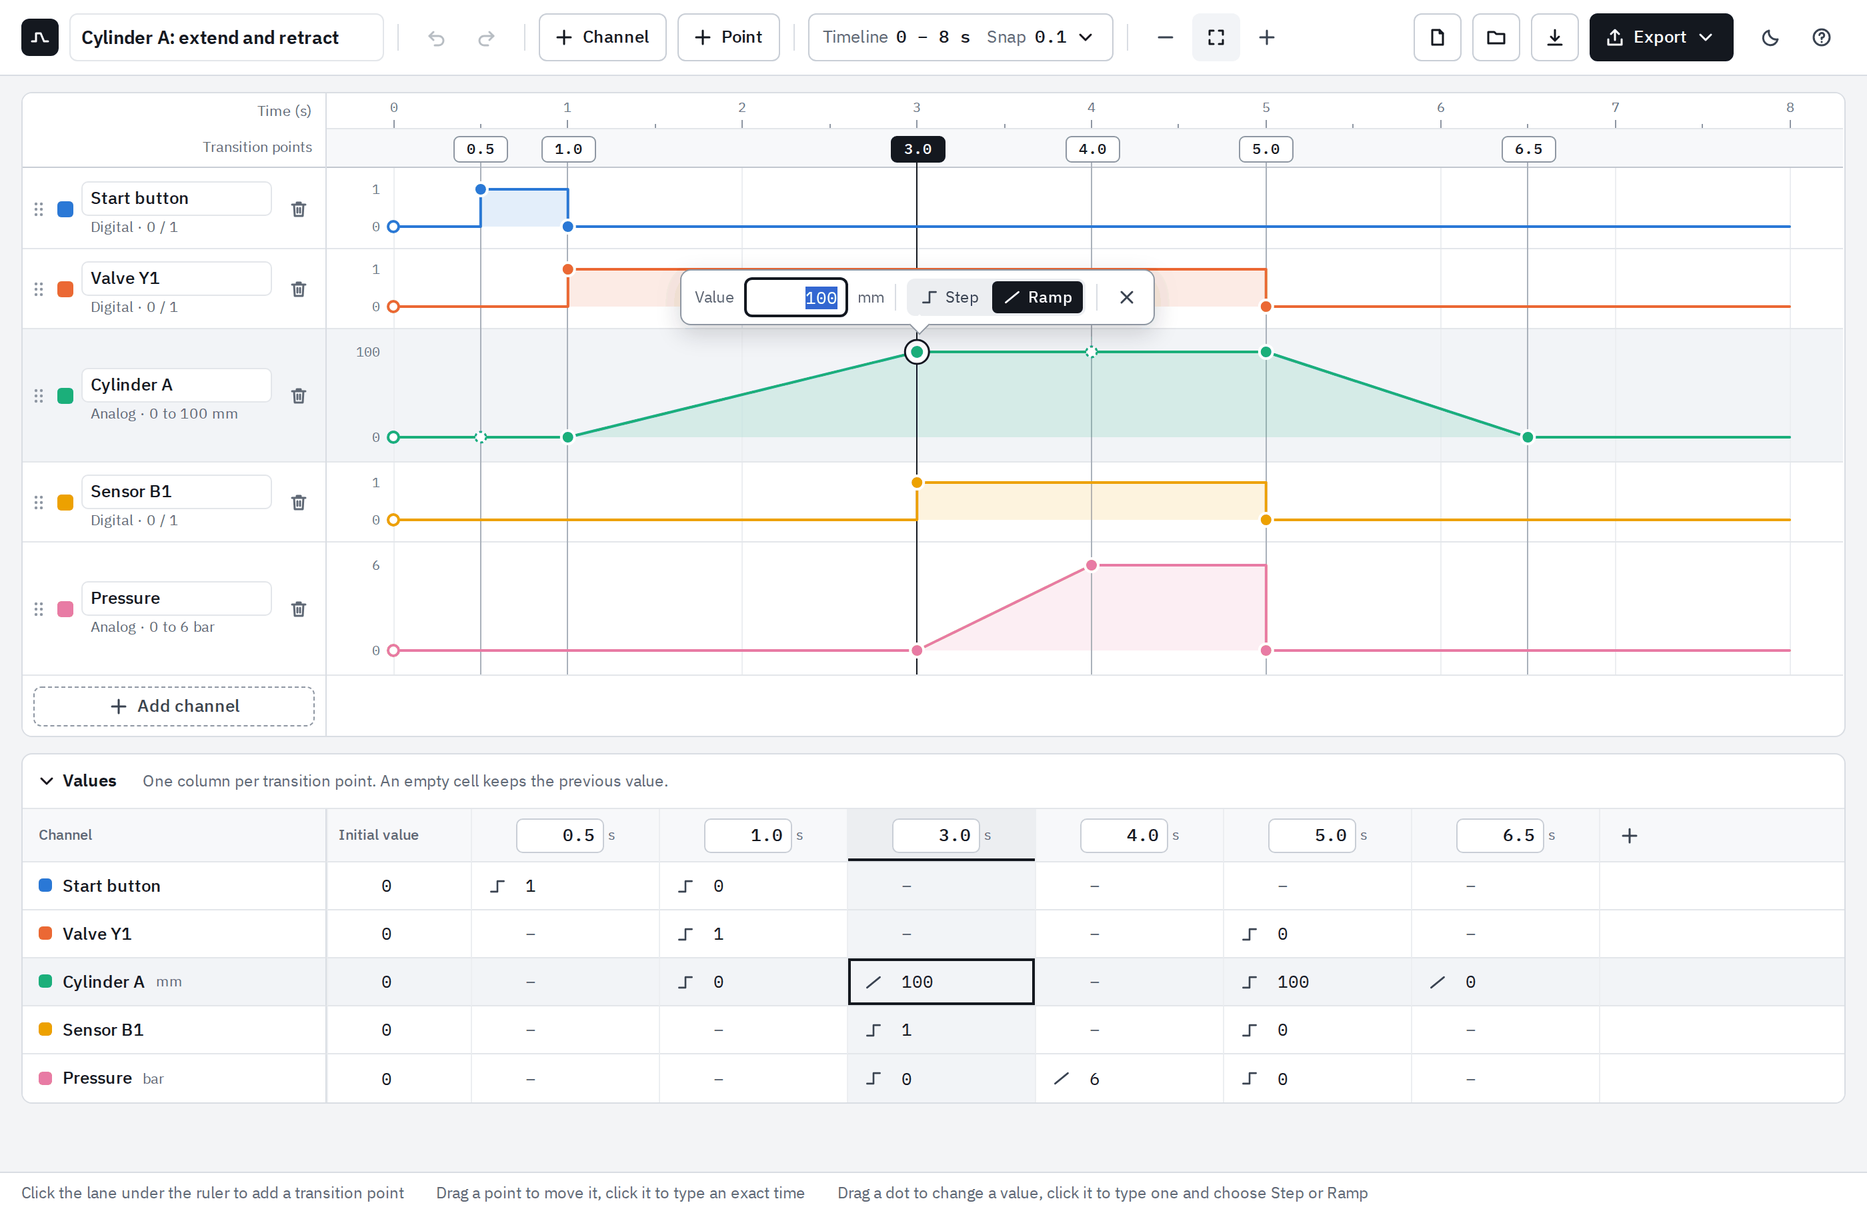
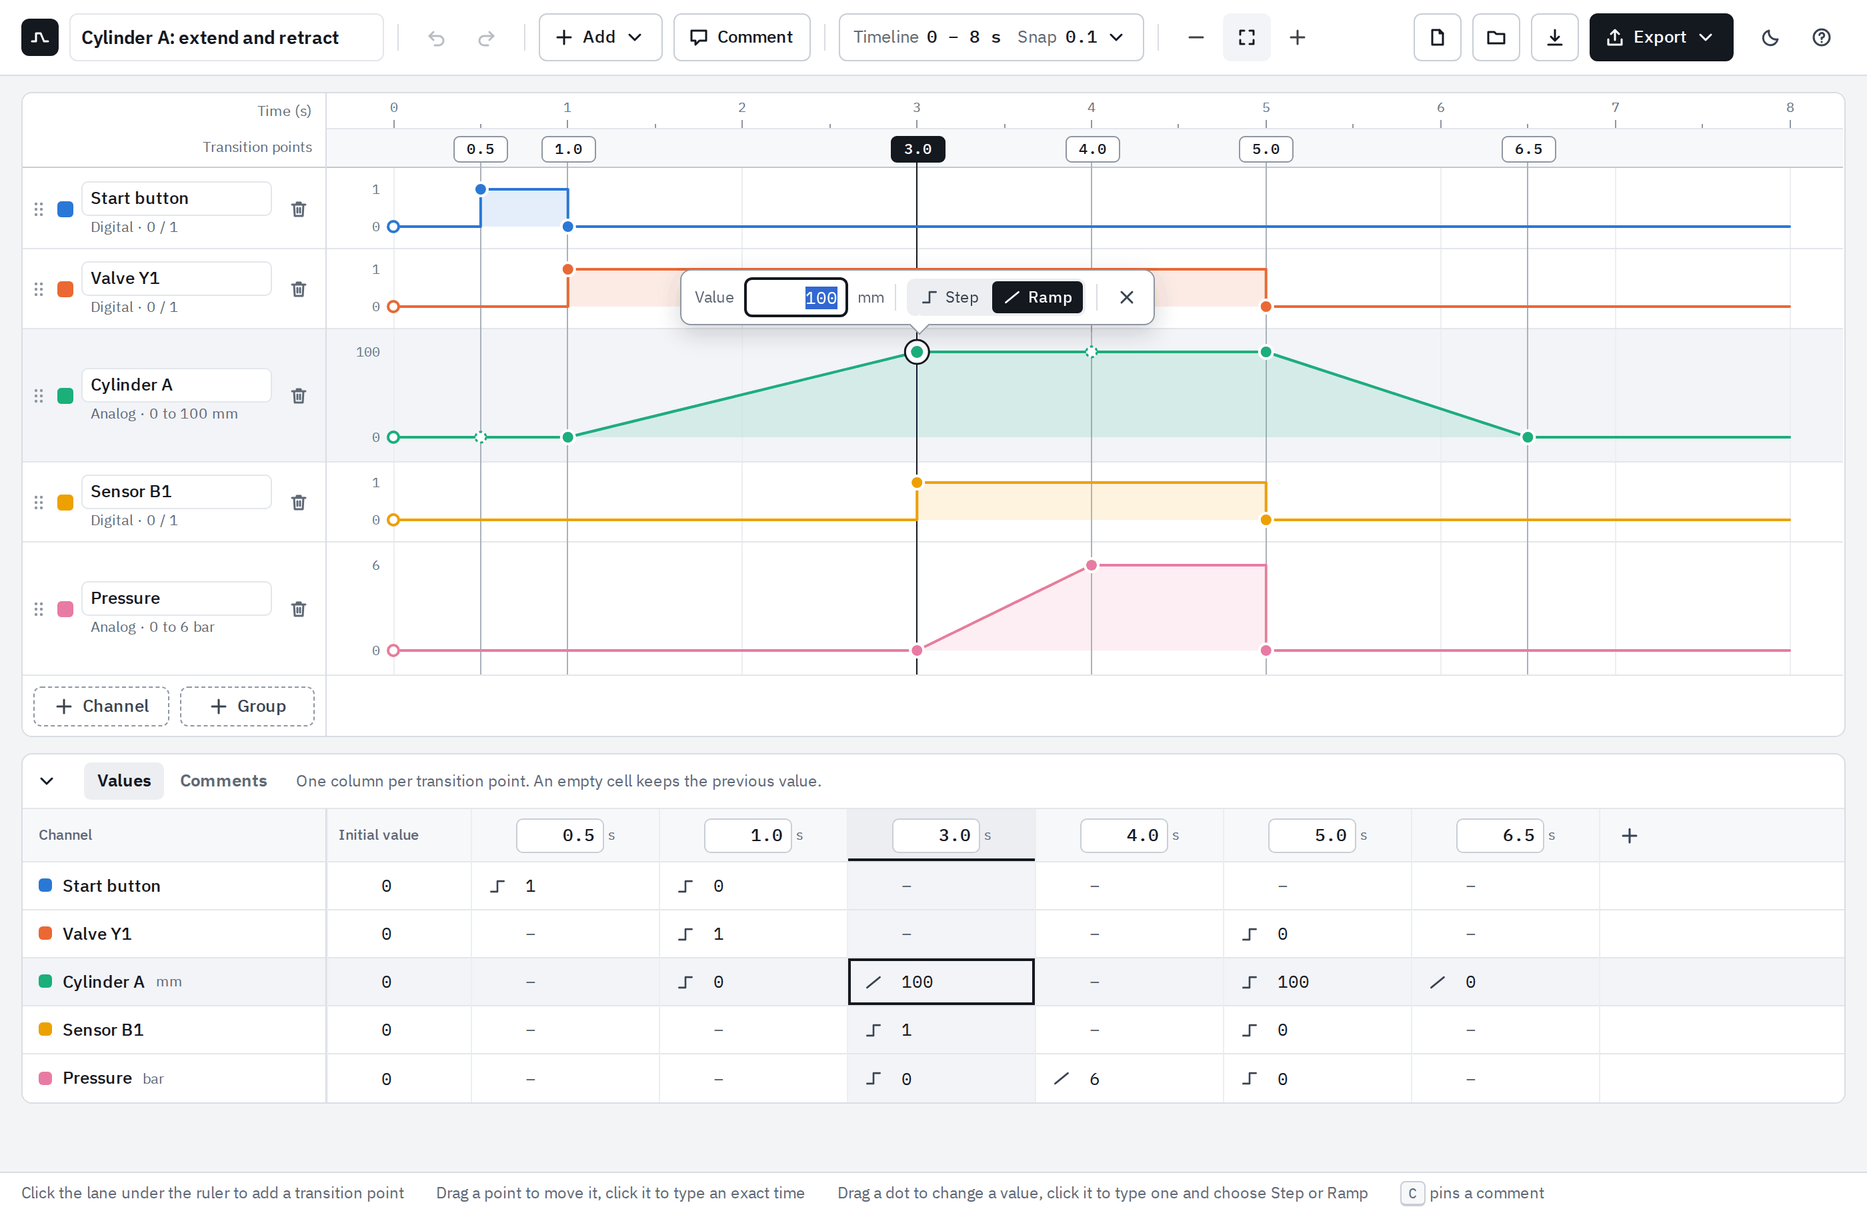
Version 1.1.0: user guide, help and screenshots for groups, phases and comments
The README and the help panel explain groups, phases and comments; the
example with all three is loaded from the help panel. The plan records
what was built and where it differs from the mockup.

diff --git a/src/ui/Toolbar.tsx b/src/ui/Toolbar.tsx
@@ -213,7 +213,7 @@ function HelpPanel() {
       <h3>Channels</h3>
       <ul>
         <li>
-          <b>Add channel</b> under the lanes adds a digital (0 / 1) or an analog channel.
+          <b>+ Channel</b> under the lanes, or <b>Add</b> in the toolbar, adds a digital (0 / 1) or an analog channel.
         </li>
         <li>Click a name to rename it. Click the line under the name for type, colour, unit and range.</li>
         <li>Drag the grip on the left to reorder. The bin removes the channel.</li>
@@ -233,7 +233,38 @@ function HelpPanel() {
         <li>
           <b>Step</b> keeps the previous value and then jumps. <b>Ramp</b> changes gradually from the previous point.
         </li>
-        <li>The table at the bottom shows and edits the same numbers.</li>
+        <li>
+          The <b>Values</b> tab at the bottom shows and edits the same numbers.
+        </li>
+      </ul>
+      <h3>Groups</h3>
+      <ul>
+        <li>
+          <b>+ Group</b> under the lanes adds a titled block of channels, e.g. one per state of the machine. The first group takes the channels
+          that are there. All groups share the timeline and its transition points.
+        </li>
+        <li>
+          Click the title to rename it, drag its grip to reorder, fold it away with the arrow. <b>⋯</b> adds channels and phases, duplicates or
+          removes the group.
+        </li>
+        <li>Drag a channel by its grip into another group.</li>
+      </ul>
+      <h3>Phases</h3>
+      <ul>
+        <li>Click or drag in the bar of a group to add a phase: a titled stretch of time inside that group.</li>
+        <li>Click a phase for its title and exact times. Drag one of its ends to move it.</li>
+        <li>An end that sits on a transition point follows that point.</li>
+      </ul>
+      <h3>Comments</h3>
+      <ul>
+        <li>
+          <b>Comment</b> in the toolbar picks up a pin. Click where it belongs: a spot in a lane, a transition point, a phase, or the name of a
+          channel, a group or the diagram.
+        </li>
+        <li>Click a pin to read or change its text, drag it to another place.</li>
+        <li>
+          The <b>Comments</b> tab at the bottom lists them all. Exports show the pins and the texts.
+        </li>
       </ul>
       <h3>Keyboard</h3>
       <dl>
@@ -254,9 +285,13 @@ function HelpPanel() {
         </dt>
         <dd>Make the selected value a step / a ramp</dd>
         <dt>
+          <kbd>C</kbd>
+        </dt>
+        <dd>Pin a comment: to what has the focus, or with the next click</dd>
+        <dt>
           <kbd>Del</kbd>
         </dt>
-        <dd>Delete the selected point or value</dd>
+        <dd>Delete the selected point, value, phase or comment</dd>
         <dt>
           <kbd>Ctrl</kbd> + wheel
         </dt>

diff --git a/src/model/phases.ts b/src/model/phases.ts
@@ -1,6 +1,7 @@
 /** Phases: titled stretches of time inside a group. Pure functions, like everything in the model. */
 
 import { dropOrphanComments } from './comments';
+import { findGroup } from './groups';
 import { newId } from './ids';
 import { anchorAt, anchorTime, coverMoments, sameAnchor } from './moments';
 import type { Anchor, Doc, Group, Phase } from './types';
@@ -20,17 +21,13 @@ export function phaseSpan(doc: Doc, phase: Phase): Span {
 }
 
 /** The moment a phase starts at, and the one it ends at. */
-function phaseEnds(doc: Doc, phase: Phase): { start: Anchor; end: Anchor } {
+export function phaseMoments(doc: Doc, phase: Phase): { start: Anchor; end: Anchor } {
   return anchorTime(doc, phase.from) <= anchorTime(doc, phase.to) ? { start: phase.from, end: phase.to } : { start: phase.to, end: phase.from };
 }
 
 /** The phases of a group from left to right. */
 export function sortedPhases(doc: Doc, group: Group): Phase[] {
   return [...group.phases].sort((a, b) => phaseSpan(doc, a).start - phaseSpan(doc, b).start);
-}
-
-function findGroup(doc: Doc, groupId: string): Group | undefined {
-  return doc.groups.find((group) => group.id === groupId);
 }
 
 export function findPhase(doc: Doc, groupId: string, phaseId: string): Phase | undefined {
@@ -52,7 +49,7 @@ function fit(doc: Doc, group: Group, origin: Anchor, target: Anchor, ignoreId?: 
     const span = phaseSpan(doc, other);
     if (span.start === span.end) continue;
     if (o > span.start && o < span.end) return null;
-    const ends = phaseEnds(doc, other);
+    const ends = phaseMoments(doc, other);
     if (t > o && span.start >= o && span.start < t) {
       t = span.start;
       far = ends.start;
@@ -175,11 +172,6 @@ export function stretchPhase(doc: Doc, groupId: string, phaseId: string, origin:
   return coverMoments(next);
 }
 
-/** The moment a phase starts at, and the one it ends at. */
-export function phaseMoments(doc: Doc, phase: Phase): { start: Anchor; end: Anchor } {
-  return phaseEnds(doc, phase);
-}
-
 /**
  * Moves the start or the end of a phase to another moment. The other end
  * stays; the moved one stops where a neighbouring phase begins.
@@ -187,7 +179,7 @@ export function phaseMoments(doc: Doc, phase: Phase): { start: Anchor; end: Anch
 export function setPhaseEdge(doc: Doc, groupId: string, phaseId: string, edge: 'start' | 'end', moment: Anchor): Doc {
   const phase = findPhase(doc, groupId, phaseId);
   if (!phase) return doc;
-  const ends = phaseEnds(doc, phase);
+  const ends = phaseMoments(doc, phase);
   return stretchPhase(doc, groupId, phaseId, edge === 'start' ? ends.end : ends.start, moment);
 }
 

diff --git a/src/ui/Stage.tsx b/src/ui/Stage.tsx
@@ -108,7 +108,11 @@ export function Stage() {
   };
   const placingHandlers = placing
     ? {
-        onPointerMoveCapture: (event: PointerEvent) => setGhost(previewAt(event.clientX, event.clientY, event.altKey)),
+        onPointerMoveCapture: (event: PointerEvent) => {
+          // the lanes and bars do not show what they would do on a click: nothing, for now
+          event.stopPropagation();
+          setGhost(previewAt(event.clientX, event.clientY, event.altKey));
+        },
         onPointerLeave: () => setGhost(null),
         onPointerDownCapture: swallow,
         onMouseDownCapture: swallow,

diff --git a/src/ui/App.tsx b/src/ui/App.tsx
@@ -176,6 +176,9 @@ export function App() {
           <span>Click the lane under the ruler to add a transition point</span>
           <span>Drag a point to move it, click it to type an exact time</span>
           <span>Drag a dot to change a value, click it to type one and choose Step or Ramp</span>
+          <span>
+            <kbd>C</kbd> pins a comment
+          </span>
         </footer>
       )}
       <Notice />

diff --git a/src/styles.css b/src/styles.css
@@ -897,11 +897,12 @@ kbd {
   padding: 6px 12px 6px 6px;
 }
 .values-toggle {
+  width: 28px;
   height: 28px;
-  padding: 0 8px 0 4px;
+  padding: 0;
   display: inline-flex;
   align-items: center;
-  gap: 4px;
+  justify-content: center;
   border: 0;
   border-radius: 5px;
   background: none;

diff --git a/README.md b/README.md
@@ -10,6 +10,9 @@ offline, and your diagrams never leave your computer.
 - Transition points you can drag, or set to an exact time
 - A value per point and channel, each reached by a **step** or by a gradual
   **ramp**, so digital and analog signals live in one diagram
+- **Groups** with a title, so that several states of a machine fit into one
+  diagram, and **phases** that name stretches of time inside a group
+- **Comments** pinned to any place in the diagram
 - A table that shows and edits every number
 - Export to **Excel**, **PDF** and **HTML**, plus PNG and SVG pictures
 - Undo for everything, light and dark colours
@@ -36,7 +39,7 @@ empty diagram, and the **?** button shows this guide inside the app.
 
 | To … | do this |
 |---|---|
-| add a channel | **Add channel** under the lanes, then choose *Digital* (two levels, 0 and 1) or *Analog* (any value, with unit and range) |
+| add a channel | **+ Channel** under the lanes, or **Add** in the toolbar, then choose *Digital* (two levels, 0 and 1) or *Analog* (any value, with unit and range) |
 | rename it | click the name and type |
 | change type, colour, unit or range | click the line under the name (e.g. *Analog · 0 to 100 mm*) |
 | reorder | drag the grip at the left edge of the lane |
@@ -80,9 +83,71 @@ that fixed value if the ramp should start further back.
 Every channel also has an **initial value** at the start of the timeline (the
 ring at the left edge).
 
-The **Values** table under the diagram shows the same numbers and edits them
+The **Values** tab under the diagram shows the same numbers and edits them
 too: type into a cell, empty a cell to remove its value, click the small icon to
 switch between step and ramp.
+
+### Groups
+
+A group is a titled block of channels, for example one per state of the
+machine: the normal cycle, an emergency stop, a fault. All groups share the one
+timeline and its transition points, so what happens at the same time lines up
+across the groups.
+
+![Three groups with their phases, and the comments](docs/screenshots/groups.png)
+
+| To … | do this |
+|---|---|
+| add a group | **+ Group** under the lanes, or **Add ▸ Group** in the toolbar. The first group takes the channels that are already there; every further group starts empty |
+| name it | click the title and type |
+| add a channel to it | **⋯** in the bar of the group. **+ Channel** under the lanes adds to the last group |
+| move a channel into another group | drag it by its grip across the bar of the group, or use the arrow keys on the grip |
+| reorder groups | drag the grip of the group |
+| fold a group away | the arrow left of the title. The bar and its phases stay visible |
+| make a second state from the first | **⋯ ▸ Duplicate group**: the same channels, values and phases under a new title |
+| remove a group | **⋯ ▸ Remove group, keep channels** (they move into the neighbouring group), or **⋯ ▸ Delete group** (with its channels) |
+
+Once a diagram has groups, every channel is in one of them. A diagram without
+groups works as before. Folding is a way of looking at the diagram: the browser
+remembers it, the project file does not, and exports always show every group in
+full.
+
+### Phases
+
+A phase is a titled stretch of time inside one group, e.g. *Wait*, *Extend*,
+*Hold*, *Retract*. It is drawn in the bar of its group.
+
+| To … | do this |
+|---|---|
+| add a phase | click in the bar of the group: the phase fills the free stretch between the two transition points around the click. Or drag from one time to another. Then type its title |
+| rename it, set exact times | click the phase, then type the title, *from* and *to* |
+| move an end | drag it. It snaps to transition points; hold **Alt** to place it freely |
+| delete it | click the phase, then **Delete** |
+
+An end that sits on a transition point holds on to it: move the point and the
+phase follows. Deleting the point leaves the phase where it is. The phases of a
+group lie side by side; one cannot be drawn across another.
+
+### Comments
+
+A comment is a numbered pin with a text. The numbers are given automatically,
+from top to bottom and from left to right.
+
+| To … | do this |
+|---|---|
+| add a comment | **Comment** in the toolbar or the **C** key, then click where it belongs. Type the text, **Enter** (Shift+Enter for a new line) |
+| comment on a value, a point or a phase from the keyboard | give it the focus, press **C** |
+| read it | move the pointer over the pin, or look in the **Comments** tab under the diagram |
+| change it | click the pin, or type in the Comments tab |
+| move it | drag the pin |
+| find its pin | click its number in the Comments tab |
+| delete it | click the pin, then the bin; or **×** in the Comments tab; or empty its text |
+
+A comment can be on a spot of a channel (a channel and a time), on a transition
+point, on a phase, or next to the name of a channel, a group or the whole
+diagram. A pin dropped near a transition point snaps to it and then moves with
+it. A comment lives as long as what it is about: deleting a channel, a group or
+a phase deletes its comments too.
 
 ### Saving and exporting
 
@@ -94,15 +159,20 @@ The **Export** menu writes:
 
 | Format | Contents |
 |---|---|
-| Excel workbook (`.xlsx`) | a picture of the diagram, the values with their transitions (one row per point), and a *Plot data* sheet that draws the exact waveforms as an XY chart |
-| PDF document (`.pdf`) | the diagram as vector graphics and the values table, on A4 or A3 landscape; long diagrams continue on further pages. *Exact size* gives a page that is just the picture |
-| Web page (`.html`) | one standalone page with the picture and the values table. Moving the pointer over the picture shows the time and all values. The page can be opened in the editor again |
-| Picture (`.png`, `.svg`) | for documents and slides |
+| Excel workbook (`.xlsx`) | a picture of the diagram, the values with their transitions (one row per point, the group named above its channels), and a *Plot data* sheet that draws the exact waveforms as an XY chart. Phases and comments are listed on sheets of their own |
+| PDF document (`.pdf`) | the diagram as vector graphics, the values table, the phases and the comments, on A4 or A3 landscape. A long diagram continues on further pages, breaking between lanes. *Exact size* gives a page that is just the picture |
+| Web page (`.html`) | one standalone page with the picture, the values, the phases and the comments. Moving the pointer over the picture shows the time, all values and the phase each group is in. The page can be opened in the editor again |
+| Picture (`.png`, `.svg`) | for documents and slides, with the comments listed under the drawing |
 
 ![The exported PDF](docs/screenshots/export-pdf.png)
 
 A view that you zoomed by hand is exported at that zoom; the fitted view is
-exported at a standard width.
+exported at a standard width. *Comments: Hide* in the Export menu gives a
+drawing without pins and without the list.
+
+Project files that use groups, phases or comments have format version 2.
+Version 1.0 of the editor does not open them, and says so; files written by
+version 1.0 open as before.
 
 ### Keyboard
 
@@ -113,7 +183,8 @@ exported at a standard width.
 | ← → | move the selected transition point by one grid step (Shift: ten) |
 | ↑ ↓ | change the selected value (Shift: ten steps) |
 | S / R | make the selected value a step / a ramp |
-| Delete | delete the selected point or value |
+| C | pin a comment: to what has the focus, or with the next click |
+| Delete | delete the selected point, value, phase or comment |
 | Ctrl + mouse wheel | zoom the timeline |
 
 ## Working on the code
@@ -126,16 +197,17 @@ npm run typecheck
 ```
 
 The end-to-end tests need the test browsers once: `npx playwright install chromium firefox`.
-`e2e/requirements.spec.ts` has one test per requirement of [`Ideas.txt`](Ideas.txt).
+`e2e/requirements.spec.ts` has one test per requirement of [`Ideas.txt`](Ideas.txt);
+groups, phases, comments and their exports have a file each.
 
 | Folder | Contents |
 |---|---|
 | `src/model` | the diagram as data, and every way to change it (pure functions, no UI) |
 | `src/render` | geometry and the SVG drawing, shared by screen and exports |
 | `src/state` | the editor's state with undo history |
-| `src/ui` | the editor: toolbar, lanes, panels, values table |
+| `src/ui` | the editor: toolbar, lanes, groups, phases, comments, panels, values table |
 | `src/export` | Excel, PDF, HTML, PNG and SVG |
-| `docs` | the [plan](docs/PLAN.md) and the [mockup](docs/mockup/index.html) the editor was built from |
+| `docs` | the plans and mockups the editor was built from: [version 1.0](docs/PLAN.md), and [groups, phases and comments](docs/PLAN-groups-comments.md) |
 
 Built with TypeScript, React and Vite. Excel files are written by ExcelJS, PDF by
 jsPDF and svg2pdf.js. The bundled typeface is IBM Plex (SIL Open Font License,

diff --git a/docs/PLAN-groups-comments.md b/docs/PLAN-groups-comments.md
@@ -1,6 +1,6 @@
 # Groups, phases and comments – Plan
 
-Status: **proposal, nothing is built yet.** The decisions that need your OK are in section 9.
+Status: **approved on 2026-10-06 and built as version 1.1.0.** Section 11 lists where the result differs from this plan.
 Follows the [first plan](PLAN.md) (version 1.0, built).
 Mockup: [`mockup-groups-comments/index.html`](mockup-groups-comments/index.html) (open it in a browser). Its pictures are shown below.
 They are drawn with the editor's own drawing code and style sheet, so this is very close to how it will look.
@@ -217,9 +217,10 @@ Tests:
   stay unchanged and keep passing, which shows that a diagram without groups
   behaves as before.
 
-## 9. Decisions to confirm
+## 9. Decisions
 
-My choice is the first sentence of each item; say so if you want the other one.
+All six were confirmed as proposed on 2026-10-06. The first sentence of each
+item is what was built; the alternative is kept here for the record.
 
 1. **The small groups are called "phase".** Other words that would fit:
    *section*, *state*, *step*.
@@ -241,3 +242,39 @@ My choice is the first sentence of each item; say so if you want the other one.
 Text written directly into the drawing, arrows between transitions, groups
 inside groups, phases that span all groups, colours for phases, exporting only
 some of the groups, transition points that belong to one group only.
+
+## 11. What changed while building
+
+The mockup stays as it was drawn; these are the places where the finished
+editor differs from it or from the plan above.
+
+- **The list of comments has two columns,** the place and the text, in
+  pictures, in the PDF and on the web page. The mockup ran them together in one
+  line, which gets hard to read as soon as a text needs more than one line.
+- **A diagram that uses nothing new is still written as format version 1,**
+  so version 1.0 of the editor keeps opening it. Only a file with groups,
+  phases or comments says version 2.
+- **A comment can sit on the timeline without a transition point:** dropped in
+  the ruler away from every point, it stays at that time. That is also what
+  becomes of a comment whose transition point is deleted.
+- **A comment without text is no comment.** One that is placed and left empty
+  disappears without an undo step; emptying the text of an existing one
+  removes it, the way an emptied cell removes its value.
+- **The comment tool takes the whole diagram for itself.** While the pin is
+  picked up, nothing else reacts to a click, so a comment cannot move a point
+  or flip a value by accident. The free part of a group's bar is no place for
+  a comment: it belongs to the phases; a comment on the group goes on its title.
+- **In the Comments tab the number and the place find the pin,** not the whole
+  row, because the text in the row is edited in place.
+- **"Exact size" in the PDF carries the list of comments,** like a picture
+  file: that page is made for placing into other documents.
+- **Text is measured a little wide on purpose.** Chromium on Linux rounds the
+  width of every letter to whole pixels, which makes small text up to 5 % wider
+  than the font says. Titles are shortened and comments are broken into lines
+  with an allowance for that, so nothing runs out of its box in any browser.
+- **Two faults of version 1.0 came to light and are fixed.** A number typed
+  into the panel of a value or a transition point was thrown away when the
+  panel was closed by a click elsewhere; only Enter applied it. And renaming a
+  channel with Enter left a second undo step that changed nothing.
+- **The start-up example is unchanged;** the example with groups, phases and
+  comments is loaded from the help panel (**?**).

diff --git a/docs/PLAN.md b/docs/PLAN.md
@@ -1,7 +1,7 @@
 # Timing Diagram Editor – Plan
 
 Status: **approved on 2026-10-06 and built.** Section 8 lists where the result differs from this plan.
-Next step, not built yet: [groups, phases and comments](PLAN-groups-comments.md).
+Followed by [groups, phases and comments](PLAN-groups-comments.md), built as version 1.1.0.
 Original requirements: [`Ideas.txt`](../Ideas.txt).
 Mockup: [`mockup/index.html`](mockup/index.html) (open it in a browser), shown below.
 
